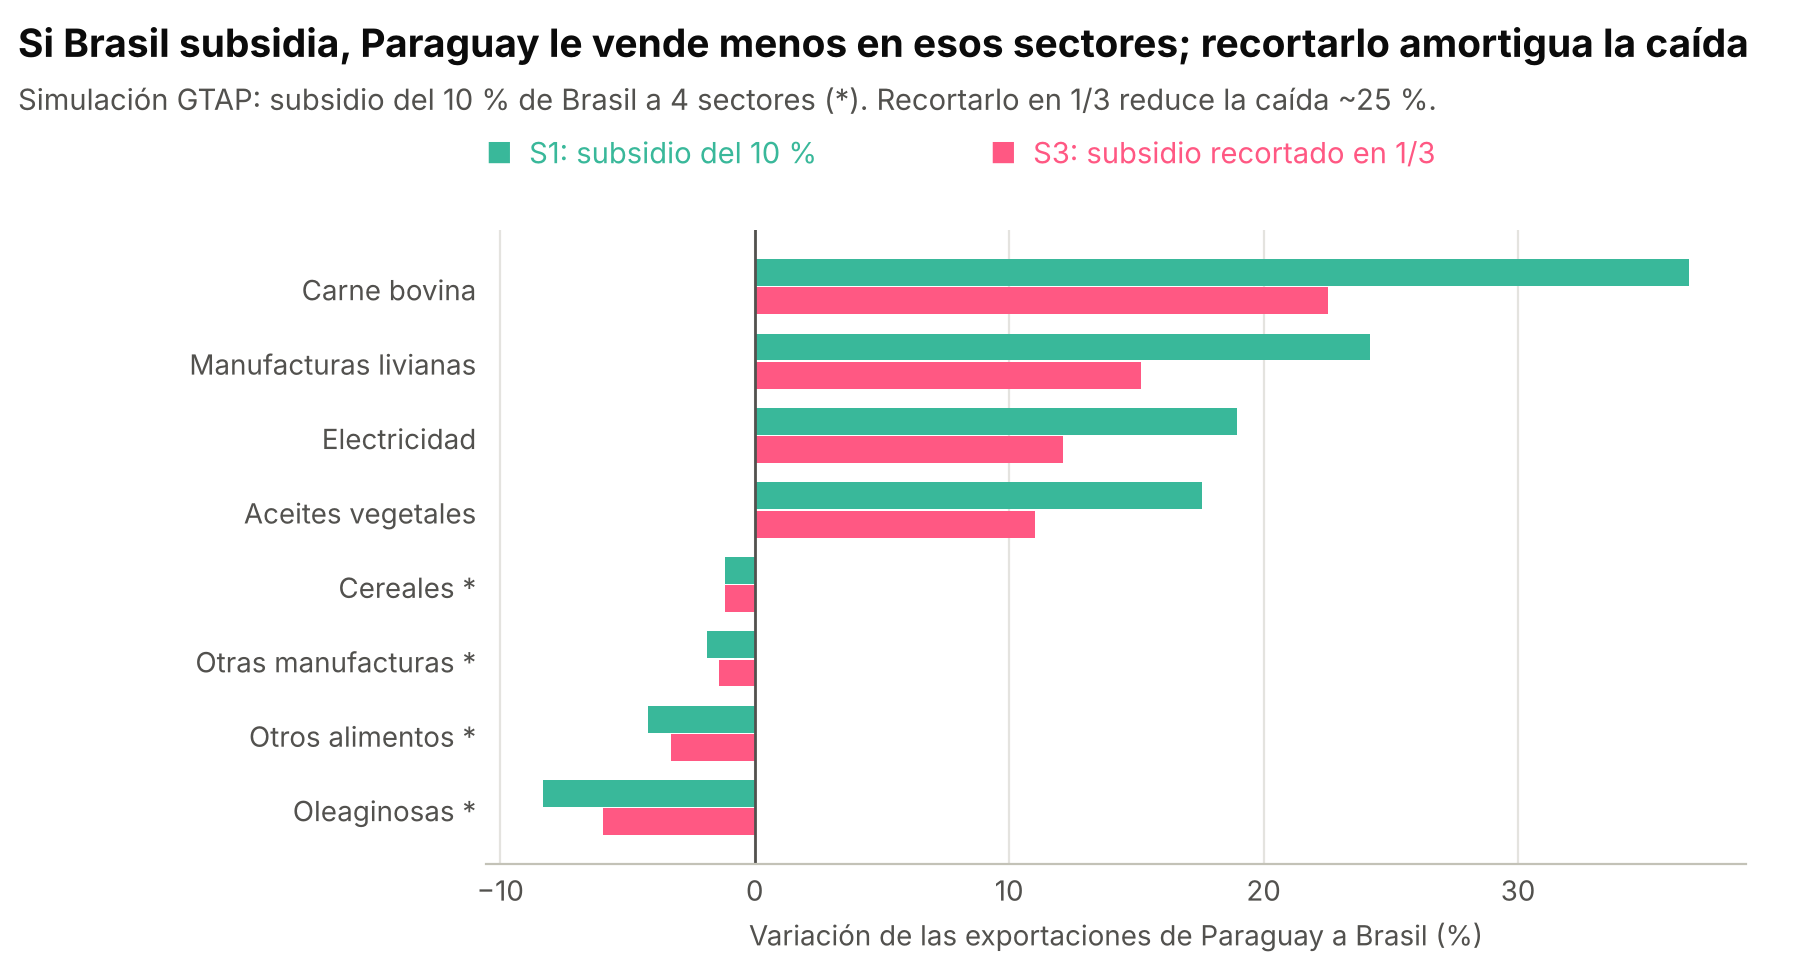
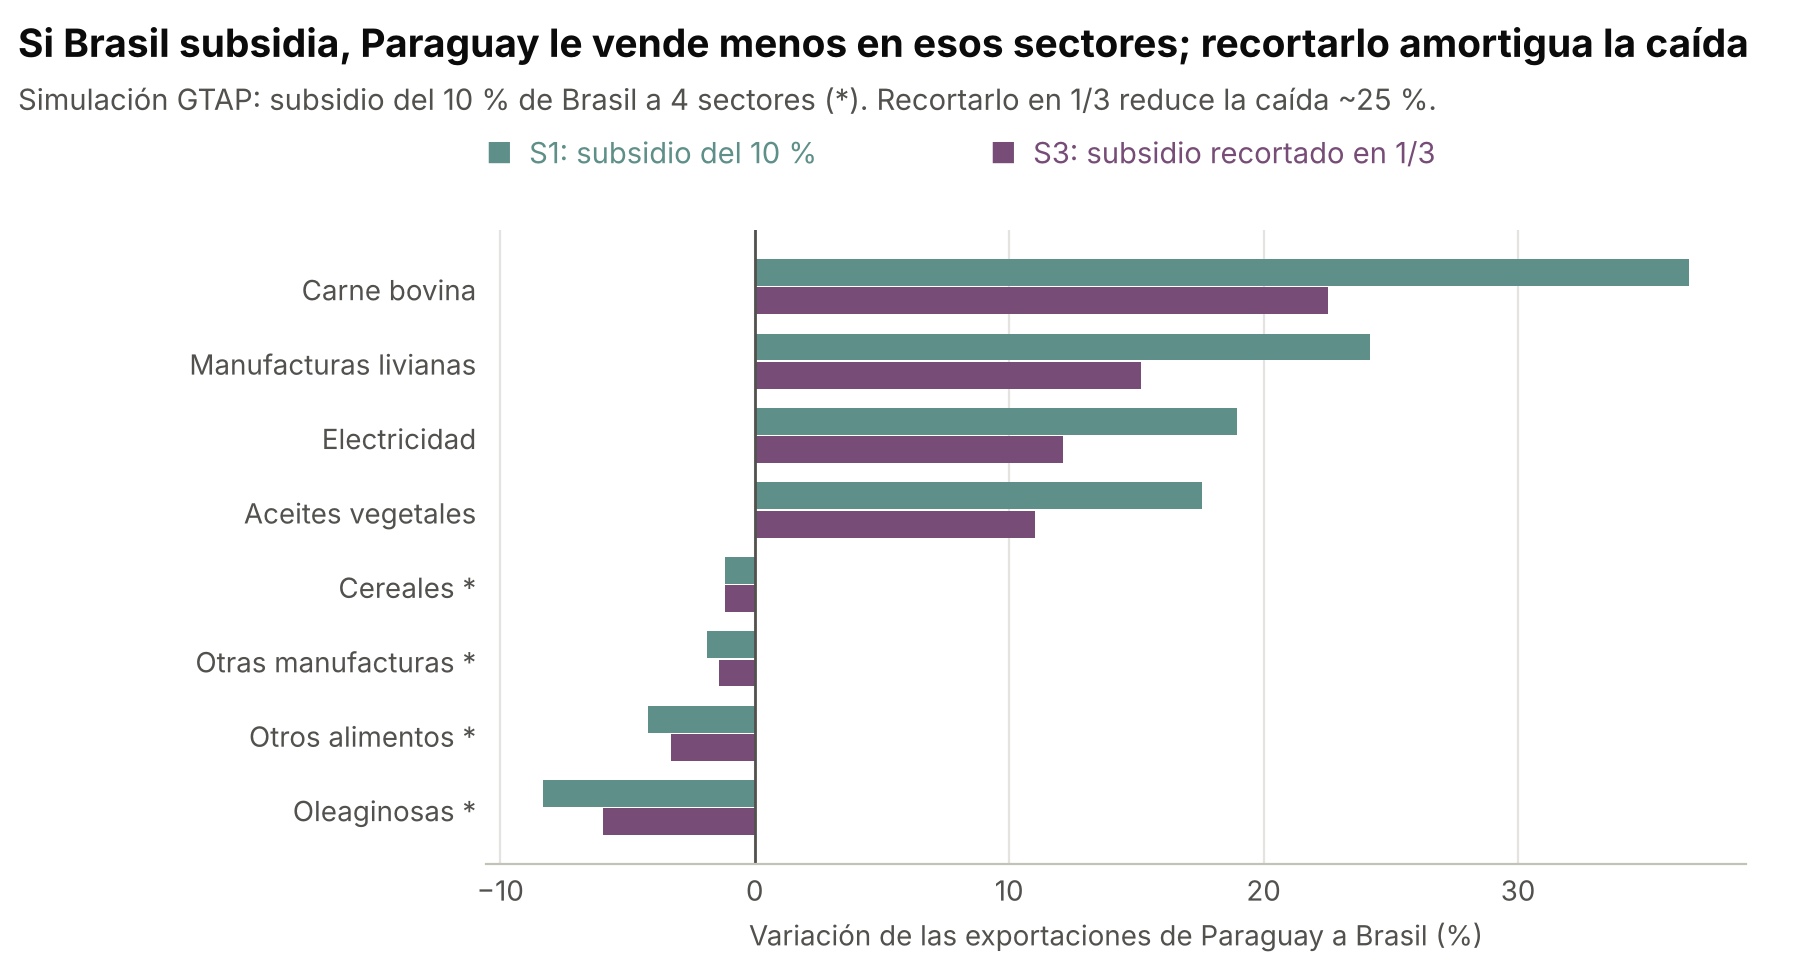
Paleta nueva (violeta y verde agua); al imprimir, siempre tema claro; enlace para bajar cada gráfico con fondo blanco

Changed region(s): [[0.28, 0.25, 0.9333, 0.875], [0.5289, 0.1562, 0.8089, 0.1875], [0.2489, 0.1562, 0.4044, 0.1875]]

diff --git a/docs/index.html b/docs/index.html
@@ -30,21 +30,21 @@
 </script>
 <style>
 :root {
-  --bg: #fffafb; --panel: #ffffff; --text: #1d1a1c; --text2: #5c5459; --line: #f3dde4; --grid: #efe7ea;
-  --s1: #39b89a; --s1d: #1f7f68; --s2: #fec9d7; --s3: #ff5883; --s4: #79d3be; --muted: #d9cfd3;
-  --accent: #1f7f68; --link: #1f7f68; --btn: #39b89a; --btntext: #08261f; --hero1: #b9eee1; --hero2: #fec9d7; --code: #fdf0f4;
+  --bg: #fdfaf3; --panel: #ffffff; --text: #1d1a1c; --text2: #5c5459; --line: #e9e1d3; --grid: #ece6dc;
+  --s1: #5e8f88; --s1d: #3f6b65; --s2: #e6dae7; --s3: #774d78; --s4: #8db2ac; --muted: #d8cfc0;
+  --accent: #3f6b65; --link: #3f6b65; --btn: #5e8f88; --btntext: #08261f; --hero1: #b7d0cc; --hero2: #e6dae7; --code: #f7f1e6;
 }
 @media (prefers-color-scheme: dark) {
   :root:not([data-theme="light"]) {
     --bg: #161314; --panel: #201b1d; --text: #f5eef1; --text2: #bfb3b8; --line: #3a2f33; --grid: #2c2427;
-    --s1: #39b89a; --s1d: #79d3be; --s2: #6b3a4a; --s3: #ff91ad; --s4: #b9eee1; --muted: #4a4044;
-    --accent: #79d3be; --link: #79d3be; --btn: #39b89a; --btntext: #08261f; --hero1: #123a31; --hero2: #3d1a26; --code: #2a2225;
+    --s1: #5e8f88; --s1d: #8db2ac; --s2: #4a3a4d; --s3: #af8eb1; --s4: #b7d0cc; --muted: #4a4044;
+    --accent: #8db2ac; --link: #8db2ac; --btn: #5e8f88; --btntext: #08261f; --hero1: #24403c; --hero2: #3a2a3b; --code: #2a2225;
   }
 }
 :root[data-theme="dark"] {
   --bg: #161314; --panel: #201b1d; --text: #f5eef1; --text2: #bfb3b8; --line: #3a2f33; --grid: #2c2427;
-  --s1: #39b89a; --s1d: #79d3be; --s2: #6b3a4a; --s3: #ff91ad; --s4: #b9eee1; --muted: #4a4044;
-  --accent: #79d3be; --link: #79d3be; --btn: #39b89a; --btntext: #08261f; --hero1: #123a31; --hero2: #3d1a26; --code: #2a2225;
+  --s1: #5e8f88; --s1d: #8db2ac; --s2: #4a3a4d; --s3: #af8eb1; --s4: #b7d0cc; --muted: #4a4044;
+  --accent: #8db2ac; --link: #8db2ac; --btn: #5e8f88; --btntext: #08261f; --hero1: #24403c; --hero2: #3a2a3b; --code: #2a2225;
 }
 * { box-sizing: border-box; }
 html { -webkit-text-size-adjust: 100%; scroll-behavior: smooth; }
@@ -122,12 +122,12 @@ footer { margin-top: 56px; padding: 28px 0 48px; border-top: 1px solid var(--lin
   .tw { overflow: visible; }
 }
 .contador[hidden] { display: none; }
-.contador { display: inline-block; margin: 12px 0 0; padding: 4px 12px; border-radius: 99px; background: var(--tag, #fec9d7); color: var(--tagtext, #7a2440); font-size: 13px; }
+.contador { display: inline-block; margin: 12px 0 0; padding: 4px 12px; border-radius: 99px; background: var(--tag, #e6dae7); color: var(--tagtext, #4f3050); font-size: 13px; }
 .comentar { margin: 40px auto 0; max-width: 960px; padding: 0 16px; }
-.comentar .caja { border: 1.5px dashed #79d3be; border-radius: 12px; padding: 18px 20px; }
+.comentar .caja { border: 1.5px dashed #8db2ac; border-radius: 12px; padding: 18px 20px; }
 .comentar h2 { margin: 0 0 8px; }
 .comentar p { margin: 0 0 14px; }
-.comentar a.boton { display: inline-block; padding: 9px 16px; border-radius: 8px; background: #39b89a; color: #08261f; font-weight: 600; text-decoration: none; }
+.comentar a.boton { display: inline-block; padding: 9px 16px; border-radius: 8px; background: #5e8f88; color: #08261f; font-weight: 600; text-decoration: none; }
 @media print { .comentar { display: none !important; } }
 .aviso-top { background: var(--panel); border-bottom: 1px solid var(--line); color: var(--text2); font-size: 13.5px; text-align: center; padding: 7px 16px; }
 </style>
@@ -532,6 +532,31 @@ let t; addEventListener("resize", () => { clearTimeout(t); t = setTimeout(todo, 
   }
   function mostrar() { if (caja && partes.length) { caja.textContent = "Esta página tuvo " + partes.join(" y ") + "."; caja.hidden = false; } }
   pedir(location.pathname).then(function (v) { if (v) { partes.unshift(v + " visitas"); mostrar(); } });
+})();
+</script>
+<script>
+/* Al imprimir: siempre tema claro y gráficos con fondo blanco. Debajo de cada gráfico, un enlace para bajarlo en versión clara. */
+(function () {
+  var st = document.createElement("style");
+  st.textContent = ".dl-graf{display:inline-block;font-size:13px;margin:6px 0 0;color:var(--link,inherit)}@media print{.dl-graf{display:none}}";
+  document.head.appendChild(st);
+  var antes = null;
+  addEventListener("beforeprint", function () {
+    var r = document.documentElement; antes = r.getAttribute("data-theme"); r.setAttribute("data-theme", "light");
+    document.querySelectorAll('picture source[media*="dark"]').forEach(function (s) { s.dataset.m = s.media; s.media = "not all"; });
+  });
+  addEventListener("afterprint", function () {
+    var r = document.documentElement; if (antes === null) r.removeAttribute("data-theme"); else r.setAttribute("data-theme", antes);
+    document.querySelectorAll("picture source[data-m]").forEach(function (s) { s.media = s.dataset.m; });
+  });
+  document.querySelectorAll("picture img").forEach(function (img) {
+    var src = img.getAttribute("src") || "";
+    if (!/_light\.png$/.test(src) || /tarjeta/.test(src)) return;
+    var a = document.createElement("a");
+    a.href = src; a.download = src.split("/").pop().replace("_light", ""); a.className = "dl-graf";
+    a.textContent = "Descargar gráfico (fondo blanco)";
+    img.closest("picture").insertAdjacentElement("afterend", a);
+  });
 })();
 </script>
 </body>

diff --git a/resultados/figuras.py b/resultados/figuras.py
@@ -26,9 +26,9 @@ IMG.mkdir(parents=True, exist_ok=True)
 FONDO = {"light": "#ffffff", "dark": "#0d1117"}
 TEMAS = {
     "light": dict(texto="#0b0b0b", texto2="#52514e", grilla="#e4e3df", eje="#c3c2b7",
-                  s1="#39b89a", s2="#ff5883", neutro="#fec9d7"),
+                  s1="#5e8f88", s2="#774d78", neutro="#e6dae7"),
     "dark": dict(texto="#f0efec", texto2="#c3c2b7", grilla="#33332f", eje="#52514e",
-                 s1="#39b89a", s2="#ff91ad", neutro="#6b3a4a"),
+                 s1="#5e8f88", s2="#af8eb1", neutro="#4a3a4d"),
 }
 
 
